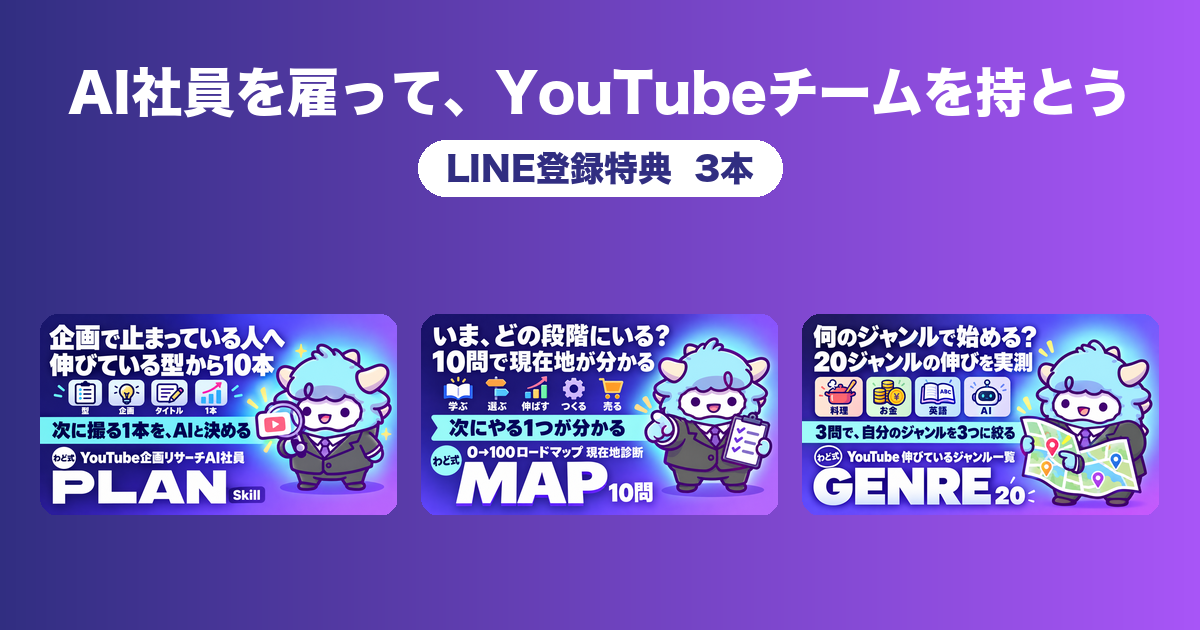
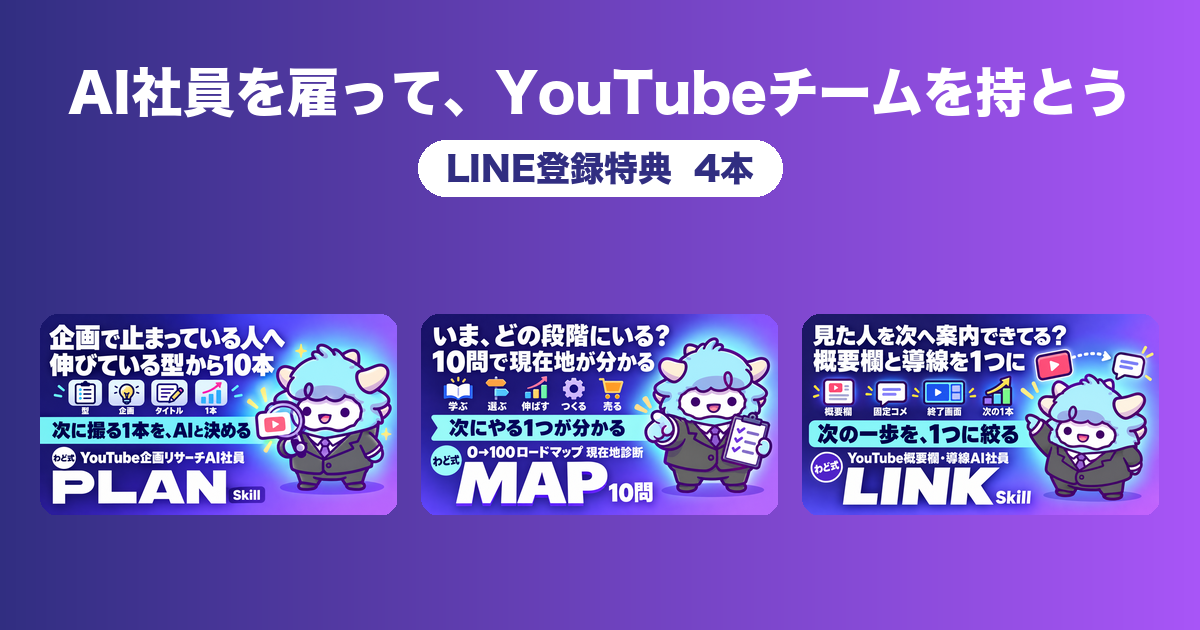
chore(site): yt-line 2026-11-05 pages=5 png=17

Changed region(s): [[0.6475, 0.4825, 0.9867, 0.8143], [0.555, 0.2413, 0.6167, 0.3016]]

diff --git a/bonus-N70/index.html b/bonus-N70/index.html
@@ -1,0 +1,206 @@
+<!DOCTYPE html><html lang='ja'><head><meta charset='utf-8'><meta name='viewport' content='width=device-width, initial-scale=1'><meta name='robots' content='noindex, nofollow, noarchive'><title>YouTube概要欄・導線AI社員 ── AI社員を雇って、YouTubeチームを持とう｜LINE登録特典</title><meta name='description' content='動画の内容と送り先を渡すと、概要欄・固定コメント・終了画面とカードの文言・次に見る動画を出す'><meta property='og:type' content='website'><meta property='og:locale' content='ja_JP'><meta property='og:title' content='YouTube概要欄・導線AI社員'><meta property='og:description' content='動画の内容と送り先を渡すと、概要欄・固定コメント・終了画面とカードの文言・次に見る動画を出す'><meta property='og:url' content='https://wadoteamai.github.io/wado-bonus-yt-line/bonus-N70/'><meta property='og:image' content='https://wadoteamai.github.io/wado-bonus-yt-line/img/ogp/N70.png'><meta property='og:image:width' content='1200'><meta property='og:image:height' content='630'><meta name='twitter:card' content='summary_large_image'><meta name='twitter:title' content='YouTube概要欄・導線AI社員'><meta name='twitter:description' content='動画の内容と送り先を渡すと、概要欄・固定コメント・終了画面とカードの文言・次に見る動画を出す'><meta name='twitter:image' content='https://wadoteamai.github.io/wado-bonus-yt-line/img/ogp/N70.png'><style>
+*{box-sizing:border-box}html{-webkit-text-size-adjust:100%}
+body{margin:0;font-family:'Noto Sans JP','Hiragino Sans','Yu Gothic',sans-serif;font-size:16px;line-height:1.8;letter-spacing:.04em;color:var(--text);background:var(--bg)}
+a{color:var(--link)}img{max-width:100%;height:auto;display:block}
+.wrap{max-width:1080px;margin:0 auto;padding:0 16px}
+header.site{padding:40px 0 28px;color:#fff;background:var(--hero)}
+header.site h1{margin:0 0 6px;font-size:28px;line-height:1.3}
+header.site p{margin:0;opacity:.9;font-size:15px}
+.stamp{display:inline-block;font-size:12px;letter-spacing:.2em;padding:3px 10px;border:1px solid rgba(255,255,255,.6);border-radius:999px;margin-bottom:12px}
+.grid{display:grid;grid-template-columns:repeat(auto-fill,minmax(280px,1fr));gap:20px;padding:28px 0 40px}
+.card{background:var(--card);border-radius:14px;overflow:hidden;box-shadow:var(--shadow);display:flex;flex-direction:column;border:1px solid var(--border)}
+.card .ph{aspect-ratio:16/9;background:var(--ph);display:flex;align-items:center;justify-content:center;color:#fff;font-size:34px;font-weight:800;letter-spacing:.06em}
+.card .bd{padding:14px 16px 16px;display:flex;flex-direction:column;gap:8px;flex:1}
+.tags{display:flex;flex-wrap:wrap;gap:6px}
+.tag{font-size:11px;padding:2px 8px;border-radius:999px;background:var(--tagbg);color:var(--tagfg);white-space:nowrap}
+.tag.k{background:var(--accent);color:#fff}
+.card h2{font-size:17px;margin:0;line-height:1.45}
+.card p{margin:0;font-size:13.5px;color:var(--muted);flex:1}
+.btn{display:inline-block;text-align:center;padding:10px 16px;border-radius:10px;font-weight:700;text-decoration:none;color:#fff;background:var(--btn)}
+.btn.dl{display:block;width:100%;max-width:440px;min-height:56px;margin:12px 0;padding:14px 18px;box-sizing:border-box;border-radius:14px;box-shadow:0 3px 0 rgba(0,0,0,.18)}
+.btn.dl:active{transform:translateY(2px);box-shadow:0 1px 0 rgba(0,0,0,.18)}
+.dl-main{display:block;font-size:18px;line-height:1.3}
+.dl-sub{display:block;font-size:12px;font-weight:400;opacity:.9;margin-top:4px;word-break:break-all}
+.btn.dis{background:var(--muted);pointer-events:none}
+.btn.ghost{background:transparent;color:var(--link);border:1px solid var(--border)}
+article{padding:28px 0 48px}
+article .hero{display:grid;grid-template-columns:1fr;gap:18px;margin-bottom:24px}
+@media(min-width:760px){article .hero{grid-template-columns:1.1fr 1fr;align-items:center}}
+article h1{font-size:26px;line-height:1.35;margin:8px 0}
+article .lead{color:var(--muted);margin:0 0 12px}
+.toc{background:var(--card);border:1px solid var(--border);border-radius:12px;padding:14px 18px;margin:0 0 24px}
+.toc b{display:block;margin-bottom:6px}.toc ul{margin:0;padding-left:18px}.toc li{margin:2px 0;font-size:14px}
+.body h2{font-size:20px;margin:36px 0 10px;padding-bottom:6px;border-bottom:2px solid var(--accent)}
+.body h3{font-size:17px;margin:24px 0 8px}
+.body table{width:100%;border-collapse:collapse;font-size:14px;margin:12px 0}
+.body th{background:var(--accent);color:#fff;text-align:left;padding:6px 8px}
+.body td{padding:6px 8px;border-bottom:1px solid var(--border);vertical-align:top}
+.body pre{background:var(--pre);padding:12px;border-radius:8px;overflow-x:auto;font-size:13.5px;white-space:pre-wrap}
+.body code{background:var(--pre);padding:1px 5px;border-radius:4px;font-size:.92em}
+.body blockquote{margin:12px 0;padding:8px 14px;border-left:4px solid var(--accent);background:var(--card)}
+.tbl{overflow-x:auto}
+.pending{background:var(--card);border:1px dashed var(--border);border-radius:12px;padding:24px;text-align:center;color:var(--muted)}
+nav.pn{display:flex;justify-content:space-between;gap:12px;margin:36px 0 0;padding-top:18px;border-top:1px solid var(--border);font-size:14px}
+nav.pn a{max-width:48%}nav.pn span{color:var(--muted)}
+footer.site{padding:24px 0 40px;font-size:12.5px;color:var(--muted);border-top:1px solid var(--border)}
+footer.site p{margin:4px 0}
+.crumb{font-size:13px;margin:16px 0 0}.crumb a{text-decoration:none}
+.sec{padding:26px 0 6px;border-top:1px solid var(--border)}
+.sec:first-of-type{border-top:0;padding-top:20px}
+.sec>h2{font-size:20px;margin:0 0 4px;padding-left:12px;border-left:5px solid var(--accent);line-height:1.4}
+.sec>p{margin:0;font-size:13.5px;color:var(--muted)}
+.sec .grid{padding:16px 0 12px}
+.linkcard{background:var(--card);border:1px solid var(--border);border-radius:14px;padding:20px 22px;margin:18px 0 30px;box-shadow:var(--shadow)}
+.linkcard p{margin:0 0 12px;font-size:14px;color:var(--muted)}
+.lib{padding:8px 0 30px}
+.lib h3{font-size:16px;margin:22px 0 6px;padding-left:10px;border-left:4px solid var(--accent)}
+.lib .grid{padding:8px 0 16px}
+.lib .card h2{font-size:15px}.lib .card p{display:none}
+.lib .note{font-size:13px;color:var(--muted);margin:4px 0 0}
+
+:root{--bg:#f5f3ff;--card:#fff;--text:#374151;--muted:#6b7280;--link:#4f46e5;--border:#e5e7eb;--accent:#6366f1;--btn:linear-gradient(90deg,#6366f1,#a855f7);--hero:linear-gradient(120deg,#1e1b4b,#6366f1 60%,#a855f7);--ph:linear-gradient(135deg,#1e1b4b,#6366f1);--tagbg:#eef2ff;--tagfg:#4338ca;--shadow:0 8px 24px rgba(30,27,75,.08);--pre:#f3f4f6}
+/* yt-line（LINE登録特典）の装飾の上乗せ。2026-10-30 中井「文字の大きさ・装飾・豪華に」。260912_配布サイト構成.yaml の theme_css で読む */
+article h1{font-size:28px;letter-spacing:.02em;background:linear-gradient(90deg,#4338ca,#a855f7);-webkit-background-clip:text;background-clip:text;color:transparent}
+article .lead{font-size:16px}
+.body{font-size:17px;line-height:1.95}
+.body p{margin:14px 0}
+.body>h1:first-of-type{display:none}
+.body h2{font-size:22px;margin:52px 0 16px;padding:14px 18px;border:0;border-radius:14px;color:#fff;background:linear-gradient(110deg,#312e81,#6366f1 55%,#a855f7);box-shadow:0 6px 18px rgba(99,102,241,.25);line-height:1.45}
+.body h3{font-size:19px;margin:32px 0 10px;padding:2px 0 2px 14px;border-left:6px solid #a855f7;line-height:1.5}
+.body strong{background:linear-gradient(transparent 58%,#c7f9f1 58%);padding:0 2px}
+.body blockquote{margin:20px 0;padding:18px 20px;border:0;border-radius:16px;background:linear-gradient(#fff,#fff) padding-box,linear-gradient(120deg,#6366f1,#a855f7,#7FE7DC) border-box;border:2px solid transparent;font-size:17.5px;font-weight:600;color:#312e81}
+.body blockquote p{margin:0}
+.body img{border-radius:16px;box-shadow:0 8px 24px rgba(49,46,129,.14);margin:20px auto 6px}
+.body .cap{margin:0 0 22px;font-size:13.5px;color:var(--muted);text-align:center}
+.body table{font-size:15px;border-radius:12px;overflow:hidden;box-shadow:0 2px 10px rgba(49,46,129,.08);background:#fff}
+.body th{background:linear-gradient(90deg,#4338ca,#7c3aed);padding:10px 10px;font-size:14px}
+.body td{padding:10px 10px}
+.body tr:nth-child(even) td{background:#f8f7ff}
+.body ul,.body ol{padding-left:1.4em}
+.body li{margin:6px 0}
+.body .box{margin:22px 0;padding:16px 18px 14px;border-radius:14px;background:#fff;border:1px solid #e0e7ff;box-shadow:0 2px 10px rgba(49,46,129,.06)}
+.body .box>b:first-child{display:inline-block;margin:0 0 6px;padding:2px 12px;border-radius:999px;font-size:13px;letter-spacing:.06em;color:#fff;background:linear-gradient(90deg,#6366f1,#a855f7)}
+.body .box.warn>b:first-child{background:#f59e0b}
+.body .box p{margin:6px 0}
+.body .goal{margin:18px 0;padding:18px 20px;border-radius:16px;background:linear-gradient(120deg,#eef2ff,#faf5ff);border:2px dashed #a5b4fc;font-size:18px;font-weight:700;color:#312e81;text-align:center}
+.body .btn.dl,.hero .btn.dl{margin:16px auto}
+.body a[href^="https://line.me"] img{box-shadow:0 8px 24px rgba(6,199,85,.18)}
+.toc{border-radius:16px;border:1px solid #e0e7ff}
+@media(max-width:480px){.body{font-size:16.5px}.body h2{font-size:19.5px;padding:12px 14px}.body h3{font-size:17.5px}article h1{font-size:23px}.body table{font-size:13.5px}}
+</style></head><body>
+<header class='site'><div class='wrap'><span class='stamp'>YOUTUBE AI TEAM</span><h1 style=font-size:20px>AI社員を雇って、YouTubeチームを持とう｜LINE登録特典</h1></div></header>
+<main class='wrap'><p class='crumb'><a href='../'>← 一覧へ戻る</a></p><article>
+<div class='hero'><div><img src='../img/N70.png' alt='YouTube概要欄・導線AI社員' style='border-radius:12px'></div><div><div class='tags'><span class='tag k'>新規</span><span class='tag'>チャネルOS</span><span class='tag'>Skill</span><span class='tag'>LINE登録特典</span></div><h1>YouTube概要欄・導線AI社員</h1><p class='lead'>動画の内容と送り先を渡すと、概要欄・固定コメント・終了画面とカードの文言・次に見る動画を出す</p><a class='btn dl' href='../files/yt-dept-funnel.zip' download><span class='dl-main'>⬇ タップしてダウンロード</span><span class='dl-sub'>タップするとファイル（yt-dept-funnel.zip）が保存されます</span></a></div></div>
+<div class='toc'><b>目次</b><div class="toc">
+<ul>
+<li><a href="#_1">この特典の進め方</a></li>
+<li><a href="#1">最初のゴール（今日やる1つ）</a></li>
+<li><a href="#_2">入れ方</a><ul>
+<li><a href="#claude-code">Claude Code を使っている場合</a></li>
+<li><a href="#claudeai">claude.ai（ブラウザ・アプリ）を使っている場合</a></li>
+<li><a href="#1_1">1分の動作確認</a></li>
+</ul>
+</li>
+<li><a href="#zip">zip の中身</a></li>
+<li><a href="#ai">最新AIが出たときの使い方</a></li>
+<li><a href="#ai_1">AIに任せる所／自分で決める所</a></li>
+<li><a href="#_3">次の一歩: セミナーのオープンチャットに参加する</a></li>
+</ul>
+</div>
+</div>
+<div class='body'><h1 id="youtubeai">YouTube概要欄・導線AI社員</h1>
+<blockquote>
+<p>YouTube動画1本の概要欄（最初の2行・本文・チャプター・ハッシュタグ）、固定コメント、終了画面とカードの文言、次に見る動画を、送り先を1つに絞って作る。1本目の動画からこの1体だけで使える。</p>
+</blockquote>
+<h2 id="_1">この特典の進め方</h2>
+<p>上から順に進めます。AIは下書きと候補を出します。どれを使うか、どこを直すかはあなたが決めます。</p>
+<h2 id="1">最初のゴール（今日やる1つ）</h2>
+<p><strong>AI社員に1回話しかけて、自分のチャンネルの話で返事が返ってくる状態にする。</strong></p>
+<h2 id="_2">入れ方</h2>
+<p>上のボタンから zip をダウンロードします。中身は <code>yt-dept-funnel</code> というフォルダ1つです。</p>
+<ul>
+<li><strong>YouTube概要欄・導線AI社員</strong>（<code>yt-dept-funnel.zip</code>）: YouTube動画1本の概要欄（最初の2行・本文・チャプター・ハッシュタグ）、固定コメント、終了画面とカードの文言、次に見る動画を、送り先を1つに絞って作る。1本目の動画からこの1体だけで使える。</li>
+</ul>
+<h3 id="claude-code">Claude Code を使っている場合</h3>
+<ol>
+<li>ダウンロードした zip を、自分のパソコンの <code>~/.claude/skills/</code> に展開します。ターミナルなら次の1行です</li>
+</ol>
+<pre><code class="language-bash">unzip ~/Downloads/yt-dept-funnel.zip -d ~/.claude/skills/
+</code></pre>
+<ol start="2">
+<li>Claude Code を開き直して、<code>/yt-dept-funnel</code> と打って候補に出れば準備完了です</li>
+</ol>
+<h3 id="claudeai">claude.ai（ブラウザ・アプリ）を使っている場合</h3>
+<ol>
+<li>claude.ai の設定画面を開き、Skills の項目を探します</li>
+<li>ダウンロードした zip を、展開せずにそのままアップロードします</li>
+<li>新しいチャットで話しかけます</li>
+</ol>
+<p>Skills が使えるプランや画面の名前は変わることがあります。見つからないときは、Claude の公式ヘルプで「Skills」を検索してください。</p>
+<h3 id="1_1">1分の動作確認</h3>
+<p>「この動画の概要欄と固定コメントを作って。送り先はLINE登録（タイトルと台本の要点を貼る）」のように話しかけます。足りない情報があれば、AI社員の方から質問が返ってきます。質問が返ってくれば動いています。</p>
+<h2 id="zip">zip の中身</h2>
+<p>AI社員1人は、判断の基準・型・手順・完成見本でできています。このAI社員の中身は次のとおりです。</p>
+<div class='tbl'><table>
+<thead>
+<tr>
+<th>中身</th>
+<th>ファイル</th>
+<th>何が入っているか</th>
+</tr>
+</thead>
+<tbody>
+<tr>
+<td>ワークフロー</td>
+<td><code>SKILL.md</code></td>
+<td>いつ使うか・手順・各手順の判断基準・出力の型・してはいけないこと</td>
+</tr>
+<tr>
+<td>正しいアウトプット（完成見本）</td>
+<td><code>references/good-output.md</code></td>
+<td>動画1本の概要欄と導線を一般化した完成見本（チャンネル名・URL・数値は伏せてある）</td>
+</tr>
+<tr>
+<td>ナレッジ（考え方・判断の基準）</td>
+<td><code>references/knowledge.md</code></td>
+<td>迷ったときに立ち返る考え方と、優先順位</td>
+</tr>
+<tr>
+<td>リファレンス</td>
+<td><code>references/description-patterns.md</code></td>
+<td>概要欄・最初の2行・固定コメントの型</td>
+</tr>
+<tr>
+<td>リファレンス</td>
+<td><code>references/funnel-patterns.md</code></td>
+<td>送り先別の導線の型と、終了画面・カードの置き方</td>
+</tr>
+<tr>
+<td>リファレンス</td>
+<td><code>references/youtube-specs.md</code></td>
+<td>YouTube公式の仕様（導線に関係する所だけ）</td>
+</tr>
+</tbody>
+</table></div>
+<p>出力の形は「正しいアウトプット」（完成見本）にそろえて出てきます。見本と並べて、どこを直すかを決めてください。</p>
+<p><code>output/</code> には、このAI社員を実際のYouTubeチャンネルの材料で動かした成果物が入っています（競合のチャンネル名・数字は伏せています）。どんな形で返ってくるかを、使う前に見られます。</p>
+<h2 id="ai">最新AIが出たときの使い方</h2>
+<p>AI社員の指示文は、特定のモデルに合わせて書いていません。新しいモデルが出ても、手順はそのままで使えます。モデルの名前・料金・使える範囲は変わるので、使う前に各社の公式サイトで確かめてください。モデルの差より、どの1本のどこを直すかで結果が変わります。</p>
+<h2 id="ai_1">AIに任せる所／自分で決める所</h2>
+<ul>
+<li>AIに任せる所: 候補を出す・下書きを作る・抜けを見つける</li>
+<li>自分で決める所: 誰に届けるか、どの案を使うか、数字や実績として何を出すか</li>
+</ul>
+<p>AIは数字や実績を作りません。出したい実績は、自分で出典を確かめてから渡してください。</p>
+<p>※成果には個人差があります。特典の内容は予告なく変わることがあります。</p>
+<hr />
+<h2 id="_3">次の一歩: セミナーのオープンチャットに参加する</h2>
+<p>この特典は、セミナー「AIエージェント × 完全YouTube攻略 0→100ロードマップセミナー」の企画でお届けしています。</p>
+<p>セミナーのご案内は、企画のオープンチャットにまとめています。</p>
+<p><a href="https://line.me/ti/g2/XwfWeJRx4pIp7VlHv3ESOuFbvvBgRmcS76PWSQ?utm_source=invitation&utm_medium=link_copy&utm_campaign=default"><img src="../img/N70_openchat.png" alt="AIエージェント × 完全YouTube攻略 0→100ロードマップセミナー" style="max-width:360px;width:100%;margin:0 auto;border-radius:12px"></a></p>
+<p><a class="btn dl" style="margin:16px auto" href="https://line.me/ti/g2/XwfWeJRx4pIp7VlHv3ESOuFbvvBgRmcS76PWSQ?utm_source=invitation&utm_medium=link_copy&utm_campaign=default"><span class="dl-main">💬 タップしてオープンチャットに参加</span><span class="dl-sub">タップすると LINE が開き、オープンチャットの参加画面に移ります</span></a></p></div>
+<nav class='pn'>
+<a href='../bonus-N58/'>← YouTube 0→100ロードマップ 現在地診断</a>
+<a href='../bonus-N72/'>YouTube 今伸びているジャンル一覧＋自分に合うジャンルの選び方 →</a>
+</nav></article></main>
+<footer class='site'><div class='wrap'><p>この特典は受け取り条件を満たした方向けに配布しています。再配布・転載はご遠慮ください。</p><p>記載の売上・成果は特定の実績であり、同様の成果を保証するものではありません。</p></div></footer></body></html>

diff --git a/index.html b/index.html
@@ -90,7 +90,7 @@ article .lead{font-size:16px}
 </style></head><body>
 <header class='site'><div class='wrap'><span class='stamp'>YOUTUBE AI TEAM</span><h1>AI社員を雇って、YouTubeチームを持とう｜LINE登録特典</h1><p>公式 LINE に登録した方が受け取れる、最初のAI社員</p></div></header>
 <main class='wrap'>
-<section class='sec' id='sec-LINE'><h2>LINE登録特典</h2><p>公式 LINE に登録した方が受け取れます</p><div class='grid'><div class='card'><img src='img/N57.png' alt='YouTube企画リサーチAI社員'><div class='bd'><div class='tags'><span class='tag k'>新規</span><span class='tag'>チャネルOS</span><span class='tag'>Skill</span><span class='tag'>LINE登録特典</span></div><h2>YouTube企画リサーチAI社員</h2><p>伸びている動画を自分で集めて判定し、あなたが答えられる企画を10本（採点つき）</p><a class='btn' href='./bonus-N57/'>特典を開く</a></div></div><div class='card'><img src='img/N58.png' alt='YouTube 0→100ロードマップ 現在地診断'><div class='bd'><div class='tags'><span class='tag k'>新規</span><span class='tag'>ロードマップ</span><span class='tag'>資料</span><span class='tag'>LINE登録特典</span></div><h2>YouTube 0→100ロードマップ 現在地診断</h2><p>10問に答えると、いまの段階と次にやる1つが分かる</p><a class='btn' href='./bonus-N58/'>特典を開く</a></div></div><div class='card'><img src='img/N72.png' alt='YouTube 今伸びているジャンル一覧＋自分に合うジャンルの選び方'><div class='bd'><div class='tags'><span class='tag k'>新規</span><span class='tag'>一覧と選び方</span><span class='tag'>資料</span><span class='tag'>LINE登録特典</span></div><h2>YouTube 今伸びているジャンル一覧＋自分に合うジャンルの選び方</h2><p>20ジャンルの伸びを実測し、3問で自分の候補を3つに絞る。選んだら企画リサーチAI社員へ渡す</p><a class='btn' href='./bonus-N72/'>特典を開く</a></div></div></div></section>
+<section class='sec' id='sec-LINE'><h2>LINE登録特典</h2><p>公式 LINE に登録した方が受け取れます</p><div class='grid'><div class='card'><img src='img/N57.png' alt='YouTube企画リサーチAI社員'><div class='bd'><div class='tags'><span class='tag k'>新規</span><span class='tag'>チャネルOS</span><span class='tag'>Skill</span><span class='tag'>LINE登録特典</span></div><h2>YouTube企画リサーチAI社員</h2><p>伸びている動画を自分で集めて判定し、あなたが答えられる企画を10本（採点つき）</p><a class='btn' href='./bonus-N57/'>特典を開く</a></div></div><div class='card'><img src='img/N58.png' alt='YouTube 0→100ロードマップ 現在地診断'><div class='bd'><div class='tags'><span class='tag k'>新規</span><span class='tag'>ロードマップ</span><span class='tag'>資料</span><span class='tag'>LINE登録特典</span></div><h2>YouTube 0→100ロードマップ 現在地診断</h2><p>10問に答えると、いまの段階と次にやる1つが分かる</p><a class='btn' href='./bonus-N58/'>特典を開く</a></div></div><div class='card'><img src='img/N70.png' alt='YouTube概要欄・導線AI社員'><div class='bd'><div class='tags'><span class='tag k'>新規</span><span class='tag'>チャネルOS</span><span class='tag'>Skill</span><span class='tag'>LINE登録特典</span></div><h2>YouTube概要欄・導線AI社員</h2><p>動画の内容と送り先を渡すと、概要欄・固定コメント・終了画面とカードの文言・次に見る動画を出す</p><a class='btn' href='./bonus-N70/'>特典を開く</a></div></div><div class='card'><img src='img/N72.png' alt='YouTube 今伸びているジャンル一覧＋自分に合うジャンルの選び方'><div class='bd'><div class='tags'><span class='tag k'>新規</span><span class='tag'>一覧と選び方</span><span class='tag'>資料</span><span class='tag'>LINE登録特典</span></div><h2>YouTube 今伸びているジャンル一覧＋自分に合うジャンルの選び方</h2><p>20ジャンルの伸びを実測し、3問で自分の候補を3つに絞る。選んだら企画リサーチAI社員へ渡す</p><a class='btn' href='./bonus-N72/'>特典を開く</a></div></div></div></section>
 <section class='top-cta' style='margin:40px 0 24px;padding:24px 18px;border-radius:18px;background:var(--card);border:1px solid var(--border);text-align:center'><h2 style='margin:0 0 10px;font-size:20px'>次の一歩: セミナーのオープンチャットに参加する</h2><p>この特典は、セミナー「AIエージェント × 完全YouTube攻略 0→100ロードマップセミナー」の企画でお届けしています。</p><p>セミナーのご案内は、企画のオープンチャットにまとめています。</p><a href='https://line.me/ti/g2/XwfWeJRx4pIp7VlHv3ESOuFbvvBgRmcS76PWSQ?utm_source=invitation&amp;utm_medium=link_copy&amp;utm_campaign=default'><img src='img/top_cta.png' alt='AIエージェント × 完全YouTube攻略 0→100ロードマップセミナー' style='display:block;max-width:360px;width:100%;margin:16px auto 0;border-radius:12px'></a><a class='btn dl' style='margin:16px auto 0' href='https://line.me/ti/g2/XwfWeJRx4pIp7VlHv3ESOuFbvvBgRmcS76PWSQ?utm_source=invitation&amp;utm_medium=link_copy&amp;utm_campaign=default'><span class='dl-main'>💬 タップしてオープンチャットに参加</span><span class='dl-sub'>タップすると LINE が開き、オープンチャットの参加画面に移ります</span></a></section>
 
 </main>

diff --git a/bonus-N57/index.html b/bonus-N57/index.html
@@ -212,12 +212,12 @@ article .lead{font-size:16px}
 </tbody>
 </table></div>
 <p>出力の形は「正しいアウトプット」（完成見本）にそろえて出てきます。見本と並べて、どこを直すかを決めてください。</p>
-<p><code>output/</code> には、このAI社員を、わどのYouTubeチャンネル「わどAIマネタイズ」の材料で実際に動かした成果物が入っています（競合のチャンネル名・数字は伏せています）。どんな形で返ってくるかを、使う前に見られます。</p>
+<p><code>output/</code> には、このAI社員を実際のYouTubeチャンネルの材料で動かした成果物が入っています（競合のチャンネル名・数字は伏せています）。どんな形で返ってくるかを、使う前に見られます。</p>
 <h2 id="ai">このあと届くAI社員</h2>
 <p><img alt="YouTube部署のAI社員の図解。LINE登録で企画リサーチ、オープンチャット参加で分析と公開前チェック、セミナー参加で台本・サムネ・編集が届く" src="../img/N57_fig3_team.png" /></p>
 <p class="cap">いまは1人目。場面ごとにAI社員が増えていきます</p>
 
-<p>企画リサーチAI社員は、YouTube部署の1人目です。次の場面で、AI社員がさらに増えます。</p>
+<p>企画リサーチAI社員は、YouTube部署の1人目です。同じLINE登録特典の「YouTube概要欄・導線AI社員」が2人目です（<a href="../bonus-N70/">概要欄・導線AI社員を開く</a>）。次の場面で、AI社員がさらに増えます。</p>
 <ul>
 <li><strong>セミナー用オープンチャットに参加</strong>: YouTube分析AI社員・YouTube公開前チェックAI社員</li>
 <li><strong>セミナーに参加</strong>: YouTube台本AI社員・YouTubeサムネAI社員・YouTube編集AI社員（セミナーの実演で使う3人）</li>

diff --git a/bonus-N72/index.html b/bonus-N72/index.html
@@ -547,7 +547,7 @@ article .lead{font-size:16px}
 <p><a href="https://line.me/ti/g2/XwfWeJRx4pIp7VlHv3ESOuFbvvBgRmcS76PWSQ?utm_source=invitation&utm_medium=link_copy&utm_campaign=default"><img src="../img/N72_openchat.png" alt="AIエージェント × 完全YouTube攻略 0→100ロードマップセミナー" style="max-width:360px;width:100%;margin:0 auto;border-radius:12px"></a></p>
 <p><a class="btn dl" style="margin:16px auto" href="https://line.me/ti/g2/XwfWeJRx4pIp7VlHv3ESOuFbvvBgRmcS76PWSQ?utm_source=invitation&utm_medium=link_copy&utm_campaign=default"><span class="dl-main">💬 タップしてオープンチャットに参加</span><span class="dl-sub">タップすると LINE が開き、オープンチャットの参加画面に移ります</span></a></p></div>
 <nav class='pn'>
-<a href='../bonus-N58/'>← YouTube 0→100ロードマップ 現在地診断</a>
+<a href='../bonus-N70/'>← YouTube概要欄・導線AI社員</a>
 <span>（最後の特典）</span>
 </nav></article></main>
 <footer class='site'><div class='wrap'><p>この特典は受け取り条件を満たした方向けに配布しています。再配布・転載はご遠慮ください。</p><p>記載の売上・成果は特定の実績であり、同様の成果を保証するものではありません。</p></div></footer></body></html>

diff --git a/bonus-N58/index.html b/bonus-N58/index.html
@@ -338,6 +338,6 @@ article .lead{font-size:16px}
 <p><a class="btn dl" style="margin:16px auto" href="https://line.me/ti/g2/XwfWeJRx4pIp7VlHv3ESOuFbvvBgRmcS76PWSQ?utm_source=invitation&utm_medium=link_copy&utm_campaign=default"><span class="dl-main">💬 タップしてオープンチャットに参加</span><span class="dl-sub">タップすると LINE が開き、オープンチャットの参加画面に移ります</span></a></p></div>
 <nav class='pn'>
 <a href='../bonus-N57/'>← YouTube企画リサーチAI社員</a>
-<a href='../bonus-N72/'>YouTube 今伸びているジャンル一覧＋自分に合うジャンルの選び方 →</a>
+<a href='../bonus-N70/'>YouTube概要欄・導線AI社員 →</a>
 </nav></article></main>
 <footer class='site'><div class='wrap'><p>この特典は受け取り条件を満たした方向けに配布しています。再配布・転載はご遠慮ください。</p><p>記載の売上・成果は特定の実績であり、同様の成果を保証するものではありません。</p></div></footer></body></html>
